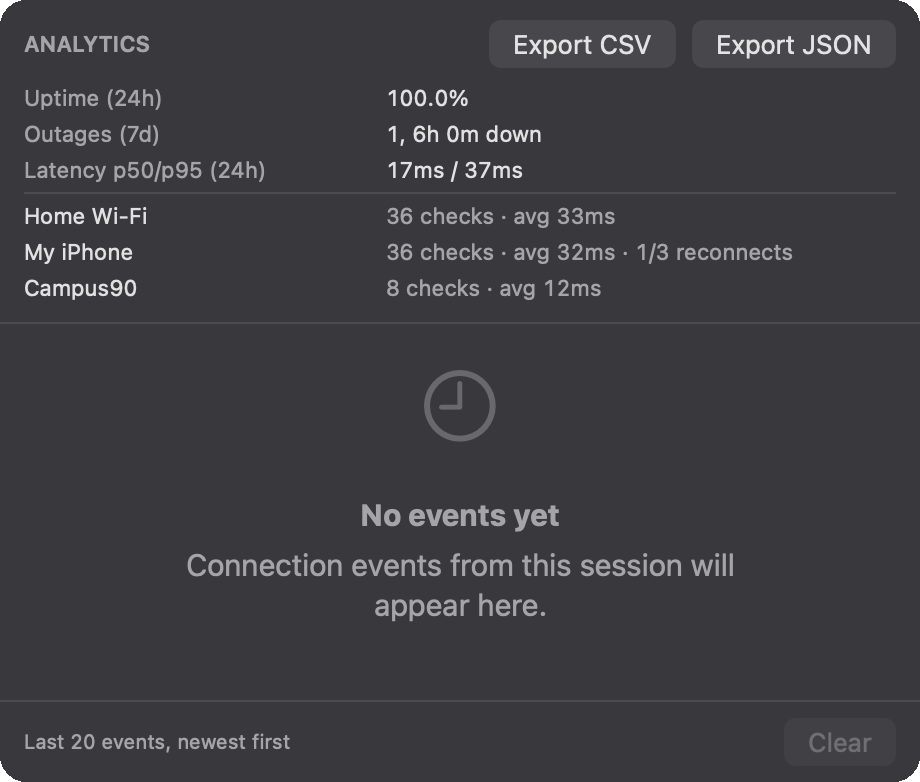
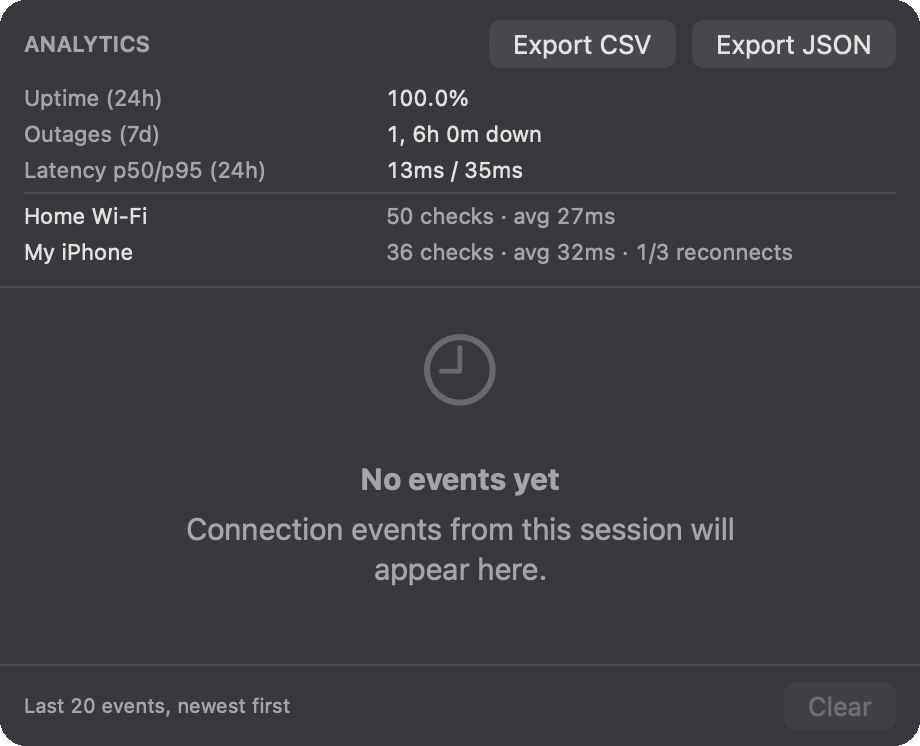
Neutral demo network, longer GIF with cursor

diff --git a/Sources/HotspotGuard/ShotRunner.swift b/Sources/HotspotGuard/ShotRunner.swift
@@ -3,13 +3,37 @@
     import HotspotGuardCore
     import SwiftUI
 
+    /// Shot-only Wi-Fi stand-in: reports a fixed neutral SSID so renders never
+    /// leak the machine's real network name into README assets.
+    ///
+    /// Association is deliberately unavailable — shots only observe.
+    final class DemoWiFiController: WiFiController, @unchecked Sendable {
+        static let ssid = "Home Wi-Fi"
+
+        func currentSSID() async -> String? { Self.ssid }
+        func isPoweredOn() async -> Bool { true }
+        func associate(ssid: String, password: String) async throws {
+            throw WiFiError.associationFailed("demo mode never associates")
+        }
+    }
+
+    /// Shot-only notification sink: drops everything so an offline render
+    /// can never banner the developer's Notification Center.
+    final class SilentNotifier: NotificationPresenter, @unchecked Sendable {
+        func requestAuthorization() async {}
+        func present(title: String, body: String) async {}
+    }
+
     /// Renders README demo frames offscreen: `HotspotGuard --shot-dir /tmp/shots`.
     ///
     /// Debug-only dev tool (compiled out of release builds): builds an isolated
-    /// `AppModel` (temporary UserDefaults suite, temporary analytics directory,
-    /// no bootstrap so no permission prompts and no real state touched), drives
-    /// live ticks for the menu frames, seeds a synthetic week for the History
-    /// frame, and writes PNGs. Assemble with ffmpeg into `docs/demo-menu.gif`.
+    /// `AppModel` (scratch UserDefaults suite, scratch analytics directory,
+    /// demo Wi-Fi with a neutral SSID, silent notifications, no bootstrap so
+    /// no permission prompts and no real state touched), drives live ticks
+    /// for the menu frames, seeds a synthetic week for the History frame,
+    /// and writes PNGs. Frames reflect connectivity at render time — render
+    /// online for the healthy state. Assemble with
+    /// `./scripts/make-demo-gif.sh`.
     enum ShotRunner {
         /// Present only when launched as `HotspotGuard --shot-dir <path>`.
         static var outputDirectory: URL? {
@@ -26,10 +50,13 @@
 
             model.settings.networks = [HotspotNetwork(ssid: "My iPhone")]
             model.suppressBootstrap = true
+            // Deterministic re-runs: a reused shot directory must not accumulate
+            // another synthetic week on top of the previous one.
+            model.analytics.reset()
             seedWeek(into: model.analytics)
 
             // Live ticks grow the latency graph frame by frame.
-            for frame in 0..<8 {
+            for frame in 0..<14 {
                 await model.manager.tick()
                 render(
                     MenuBarView(model: model).frame(width: 380, alignment: .top),

diff --git a/Sources/HotspotGuard/App.swift b/Sources/HotspotGuard/App.swift
@@ -49,6 +49,8 @@ final class AppModel {
         flags: FeatureFlags,
         analytics: AnalyticsStore,
         location: LocationAuthorization,
+        wifi: WiFiController = CoreWLANController(),
+        notifier: NotificationPresenter = UserNotificationPresenter(),
         kickBootstrap: Bool
     ) {
         self.settings = settings
@@ -66,6 +68,8 @@ final class AppModel {
             probe: TCPConnectivityProbe(
                 portalDetector: flags.isEnabled(.captivePortalDetection) ? AppleCaptivePortalDetector() : nil
             ),
+            wifi: wifi,
+            notifier: notifier,
             // AppKit lives here, not in Core — this is the whole reason
             // SleepWakeObserver is a protocol.
             sleepObserver: WorkspaceSleepWakeObserver(),
@@ -229,6 +233,7 @@ struct HotspotGuardApp: App {
                 guard let shotDefaults = UserDefaults(suiteName: "shots") else {
                     fatalError("Shot mode needs a scratch UserDefaults suite")
                 }
+                shotDefaults.removePersistentDomain(forName: "shots")
                 let shot = AppModel(
                     settings: AppSettings(defaults: shotDefaults),
                     log: EventLog(),
@@ -236,6 +241,8 @@ struct HotspotGuardApp: App {
                     flags: FeatureFlags(),
                     analytics: AnalyticsStore(directory: directory.appendingPathComponent("analytics")),
                     location: LocationAuthorization(),
+                    wifi: DemoWiFiController(),
+                    notifier: SilentNotifier(),
                     kickBootstrap: false
                 )
                 _model = State(initialValue: shot)

diff --git a/.mission/2026-10-15T212510-brief.md b/.mission/2026-10-15T212510-brief.md
@@ -1,0 +1,43 @@
+# Demo GIF v2 brief — feature/demo-gif
+
+## Task 1: Neutral demo network, longer GIF, mouse cursor
+
+Goal: the README demo GIF shows no real user location (replace Campus90
+with a neutral SSID), runs longer (12+ frames), and animates a mouse
+cursor over the UI.
+
+### Steps
+
+1. Add a shot-only fake Wi-Fi controller (`DemoWiFiController`, in
+   `ShotRunner.swift`, `#if DEBUG`) returning a fixed neutral SSID and
+   use it for the shot `AppModel` instead of the real
+   `CoreWLANController`, so neither the menu header, samples, History
+   rows nor CSV/JSON ever see the machine's real network name.
+2. Raise menu frames 8 → 14 in `ShotRunner.run`.
+3. Add `scripts/make-demo-gif.sh` (documented in AGENTS.md Commands):
+   pad frames to a uniform canvas with the panel colour, round corners,
+   draw an animated cursor visiting UI hotspots across frames (PIL),
+   assemble palette-optimised GIF via ffmpeg (fail loudly if ffmpeg or
+   frames are missing).
+4. Regenerate `docs/demo-menu.gif` (+ keep `docs/demo-history.png`),
+   verify no real SSID is visible in any frame.
+5. Run the full gate: `swift build`, `swift build -c release`,
+   `swift run hotspotguard-selftest`, `format.sh --check`, `lint.sh`
+   (0 serious), `dead-code.sh`, `check-test-layout.sh`, `duplicates.sh`,
+   `coverage.sh`, `generate-api-docs.sh --check`, `check-agents-md.sh`,
+   `flaky-check.sh`.
+
+### Reachability targets (must fail before, pass after)
+
+- `test "$(python3 -c "from PIL import Image; print(Image.open('docs/demo-menu.gif').n_frames)")" -ge 12`
+- `grep -q "DemoWiFi" Sources/HotspotGuard/ShotRunner.swift`
+- `grep -qi "cursor" scripts/make-demo-gif.sh`
+
+### Constraints
+
+- No push, no PR, no force-push, no deletion, no payments, no credentials.
+  Local branch only.
+- Shot mode must stay side-effect free: temp UserDefaults suite, temp
+  analytics dir, no bootstrap, no Keychain writes, no real SSID anywhere.
+- Everything on-device: no network calls beyond the live probe ticks the
+  shots already perform, no new hosts, no dependencies.

diff --git a/AGENTS.md b/AGENTS.md
@@ -41,6 +41,7 @@ swift run hotspotguard-selftest        # 330+ checks; exits non-zero on failure
 ./scripts/build-app.sh                 # build + wrap + sign .app bundle
 ./scripts/release.sh 1.2.3             # gated version bump, tag, push
 ./scripts/generate-api-docs.sh [--check]  # regenerate docs/api/, or verify freshness
+./scripts/make-demo-gif.sh [shots] [out]  # assemble README demo GIF from --shot-dir frames
 ./scripts/check-agents-md.sh           # this file must not lie
 ./scripts/clean-keychain.sh            # wipe dev Keychain entries (ad-hoc signing)
 ./scripts/sync-labels.sh [--check]     # sync .github/labels.json to repo labels
